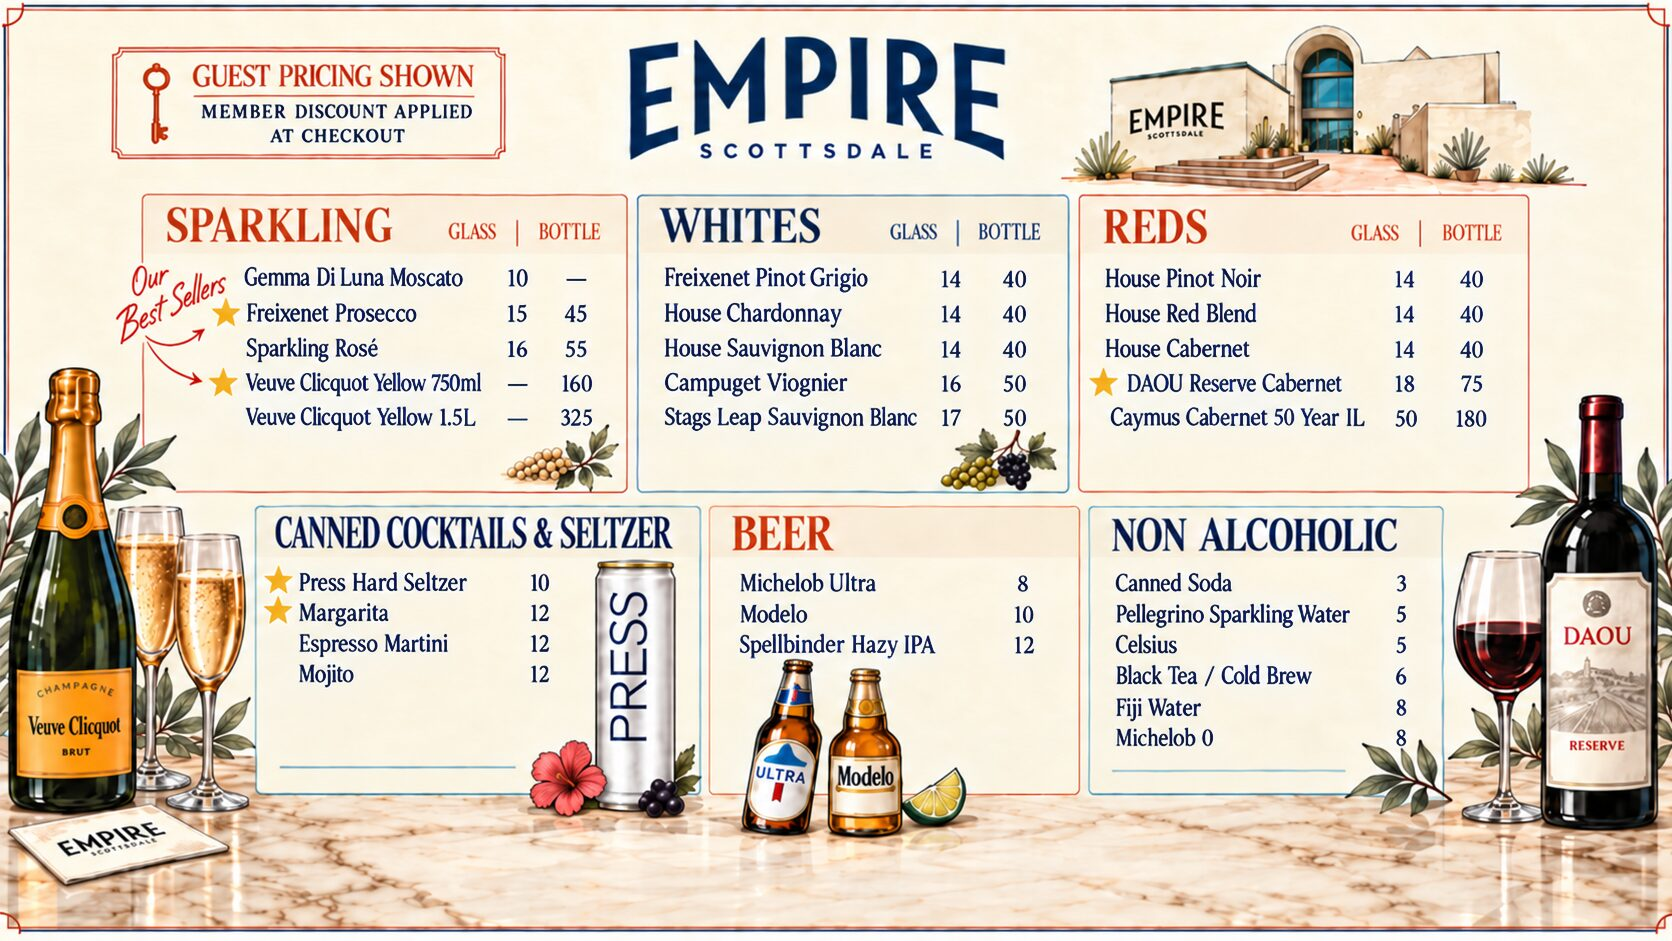
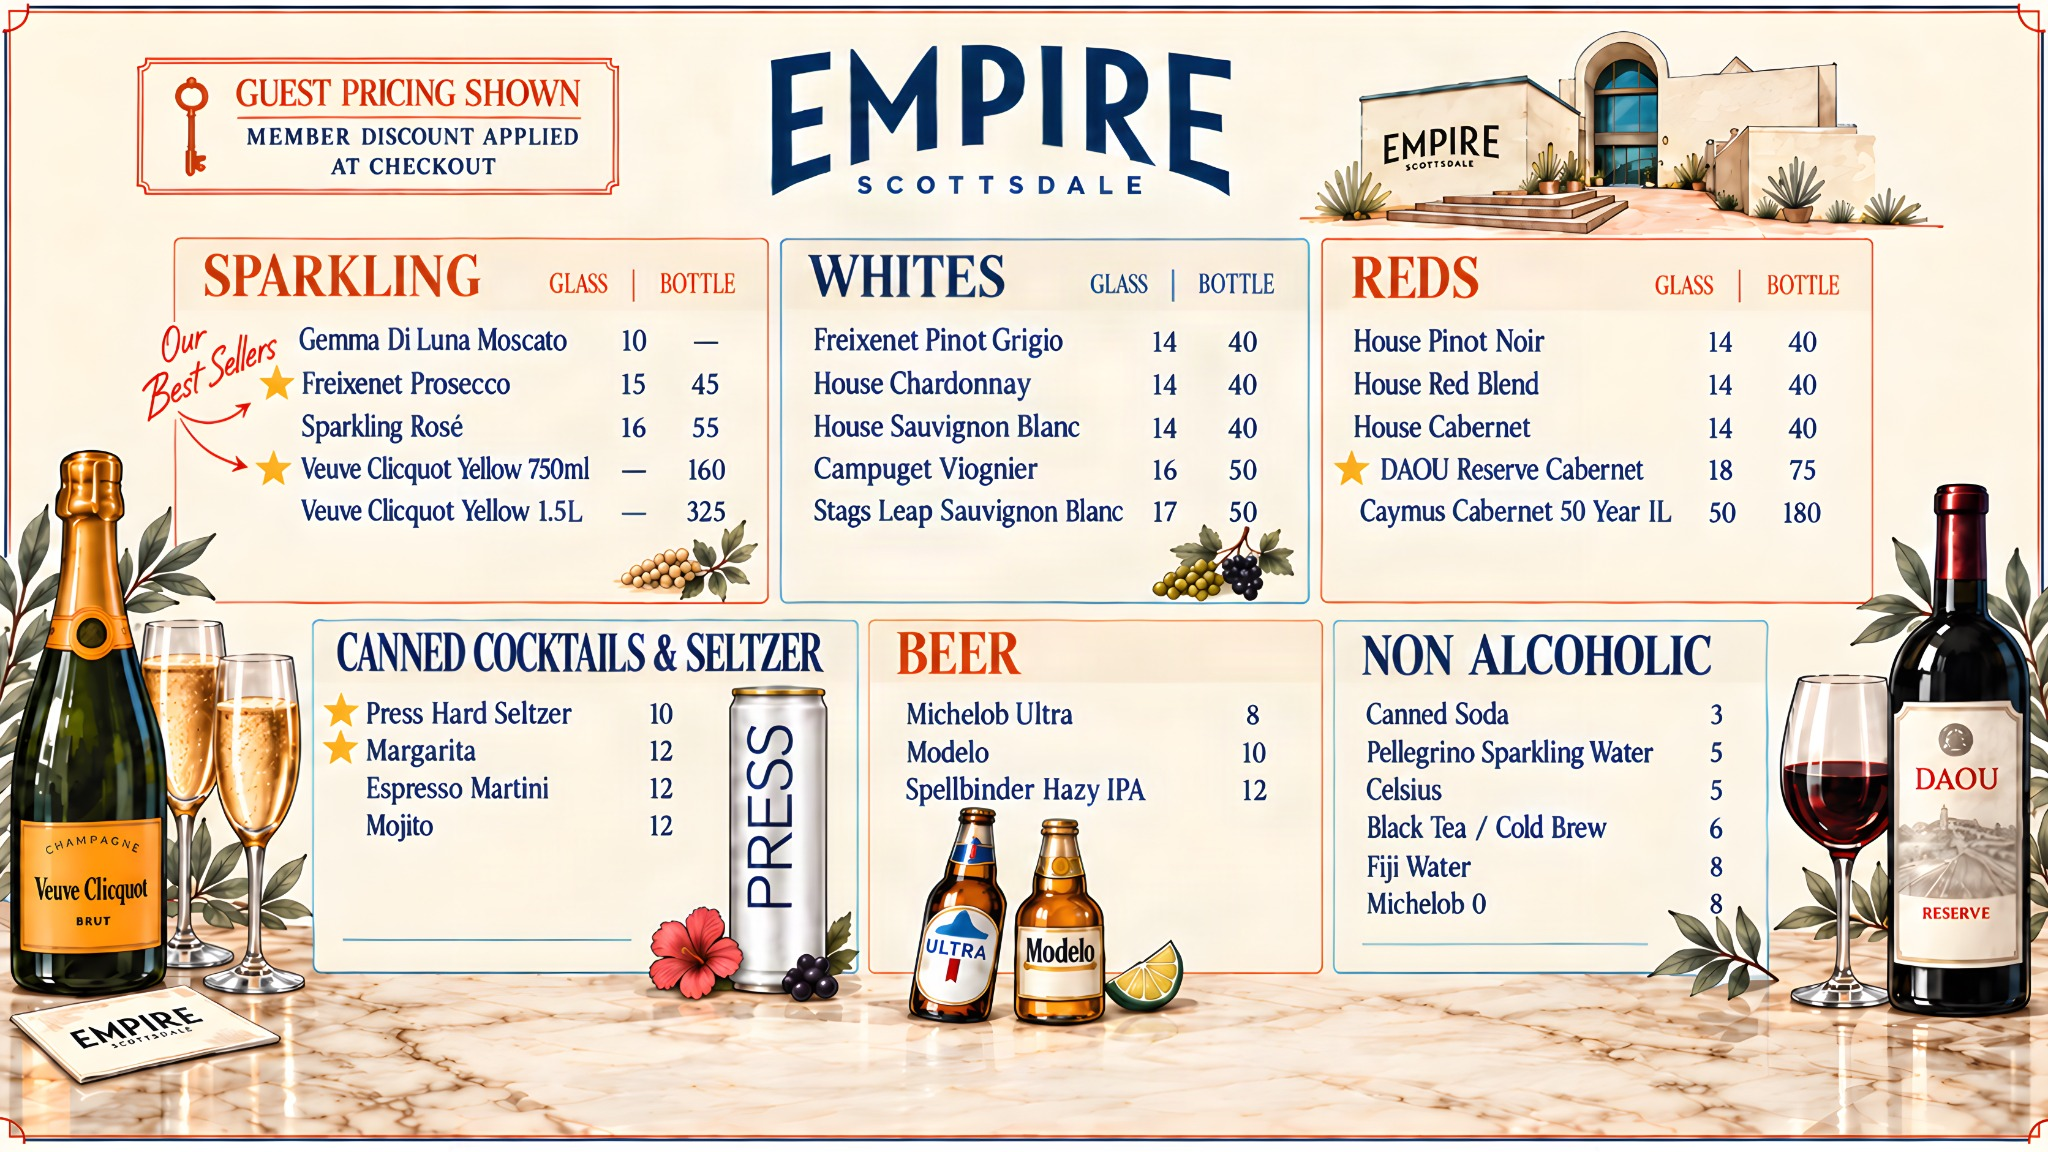
Update Empire menu image

diff --git a/index.html b/index.html
@@ -32,6 +32,6 @@
   </head>
   <body>
     <!-- Preserve the menu's original aspect ratio without cropping or stretching. -->
-    <img class="menu" src="menu.jpg" alt="Empire menu">
+    <img class="menu" src="menu.jpg?v=20260911" alt="Empire menu">
   </body>
 </html>
